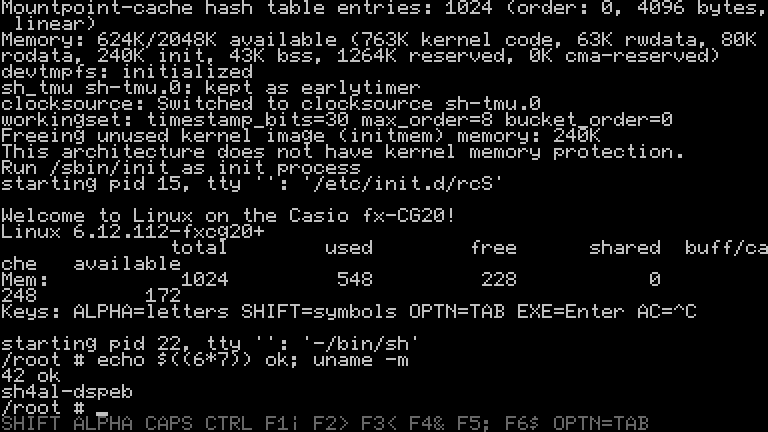
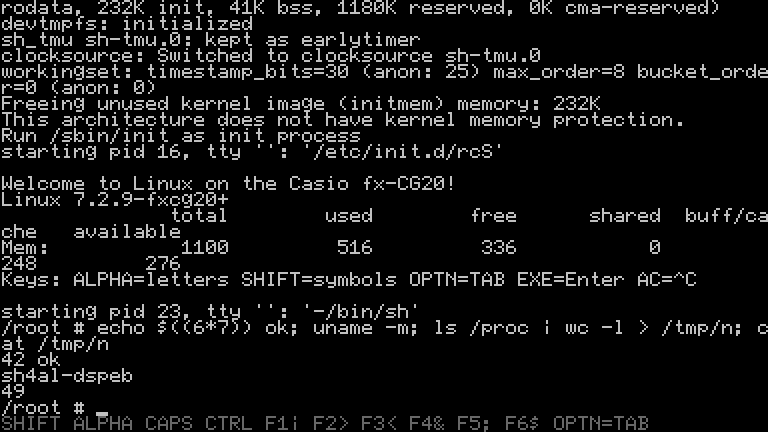
Build Linux 7.2.y
The fxcg20-7.2.y kernel branch now fits in the 2 MiB of RAM: it links
SH with --gc-sections, which removes about 190 KiB of code. The
kernel image ends at 0x0810b2c4, the zImage links at 0x0814a000, and
about 330 KiB are free once the shell is up (6.12 left 280 KiB).

- scripts/versions.sh: KERNEL_REF=fxcg20-7.2.y; reuse a checkout only
  while it is still what its ref points to.
- scripts/boot-test.sh: a second boot edits a file with vi (Esc is
  typed with the EXIT key).
- BusyBox: dmesg without the <level> prefixes.

Claude-Session: https://claude.ai/code/session_01BBRteLrHYgjmrWxWbRT6aA

diff --git a/README.md b/README.md
@@ -13,8 +13,8 @@ the calculator. The fx-CG50 is not supported yet.
 | `linux.bin` | Kernel (zImage) with the BusyBox initramfs |
 
 Both go to the root of the storage memory. The system is BusyBox 1.36
-(hush, vi, coreutils, `ps`, `free`, `mount`…) on Linux 6.12, with the LCD
-and the keyboard as the console. About 280 KiB of the 2 MiB of RAM are
+(hush, vi, coreutils, `ps`, `free`, `mount`…) on Linux 7.2, with the LCD
+and the keyboard as the console. About 330 KiB of the 2 MiB of RAM are
 free once the shell is up.
 
 > **Status:** everything boots on the emulator in CI, down to running a
@@ -25,7 +25,7 @@ free once the shell is up.
 
 | | Repository | Branch |
 |---|---|---|
-| Kernel | [MaxSignal/linux](https://github.com/MaxSignal/linux) | `fxcg20-6.12.y` (Linux 6.12.y LTS + SH7305 / fx-CG patches) |
+| Kernel | [MaxSignal/linux](https://github.com/MaxSignal/linux) | `fxcg20-7.2.y` (Linux 7.2.y stable + SH7305 / fx-CG patches) |
 | Loader | [MaxSignal/fxcg-linux-loader](https://github.com/MaxSignal/fxcg-linux-loader) | `master` |
 | Emulator (tests) | [MaxSignal/casio-cg50](https://github.com/MaxSignal/casio-cg50) | `linux-direct-boot` |
 | Toolchain | built here (`scripts/build-toolchain.sh`): gcc 14.2, binutils 2.42, musl 1.2.4 | |
@@ -33,10 +33,11 @@ free once the shell is up.
 Versions and download locations are in `scripts/versions.sh`; each can be
 overridden from the environment.
 
-Why 6.12 and not 7.x: the same patches build on 7.2.9, but there the
-scheduler always builds its SMP load balancing and debug code, and the
-kernel is about 115 KiB larger. A 7.2 kernel no longer fits the 2 MiB of
-RAM while it decompresses.
+Linux 7.2 always builds the scheduler's SMP load balancing and debug code,
+which makes it about 115 KiB larger than 6.12 for the same configuration.
+It only fits because the kernel branch lets SH link with `--gc-sections`
+(dead code and data elimination), which removes about 190 KiB of code that
+nothing calls in this configuration.
 
 ## How it boots
 
@@ -70,6 +71,7 @@ back the calculator up first.** The storage memory is never written.
 - The initramfs is compressed, so that the compressed image and the
   unpacked files fit at the same time.
 - No framebuffer: the console renders text cells directly into the LCD.
+- The kernel is linked with `--gc-sections` (.text 883 KiB down to 695 KiB).
 - perf, hardware breakpoints, sysfs, block layer and networking are left
   out, and `min_free_kbytes` gets a lower floor on small nommu systems.
 
@@ -112,8 +114,10 @@ work/cgemu linux -g3a out/fxcglinux.g3a -file out/linux.bin -font out/font6x8.h 
     -ins 2000000000 -type 'ls -l /bin\n' -png screen.png
 ```
 
-`-type` is typed with the key layout below, `-v` prints the screen as it
-changes, and `-kernel out/linux.bin` starts the kernel without the loader.
+`-type` is typed with the key layout below (`\n` is EXE, `\t` OPTN, `\e`
+EXIT), `-v` prints the screen as it changes, and `-kernel out/linux.bin`
+starts the kernel without the loader. `scripts/boot-test.sh` boots twice:
+once to run shell commands, once to edit a file with `vi`.
 
 ## Keys
 
